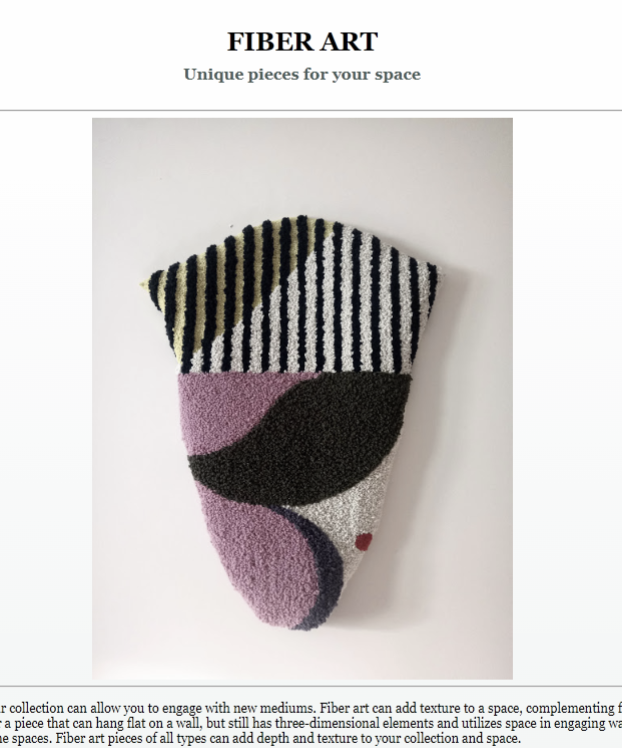
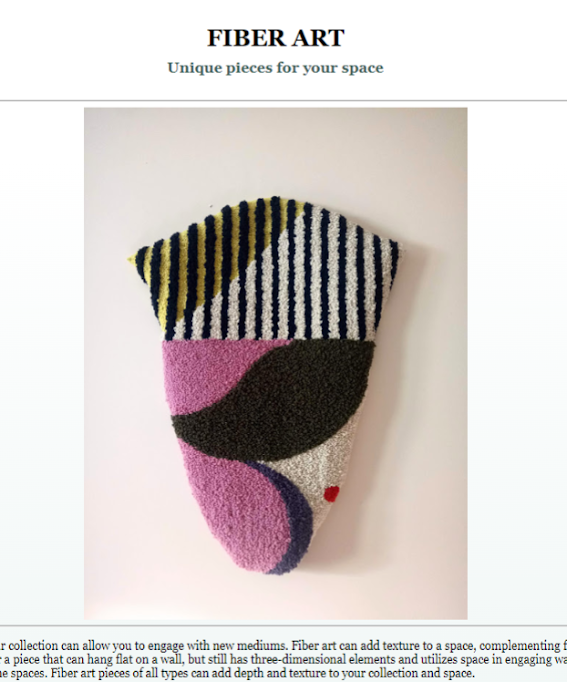
added and styled images, worked on responsive homepage

diff --git a/index.html b/index.html
@@ -31,48 +31,76 @@
     <title>Vik Shpetna</title>
   </head>
   <body>
-    <div class="hero">
-      <h2>FRONT-END DEVELOPER</h2>
-      <h1>VIK SHPETNA</h1>
-      <p>
-        Hello world and beautiful people, I'm front-end developer based in
-        Portugal
-      </p>
-      <div class="mb-5 mt-5">
-        <a href="#" class="btn btn-primary">GET STARTED</a>
+    <div class="container-fluid">
+      <div class="hero">
+        <h2>FRONT-END DEVELOPER</h2>
+        <h1>VIK SHPETNA</h1>
+        <p>
+          Hello world and beautiful people, I'm front-end developer based in
+          Portugal
+        </p>
+        <div class="mb-5 mt-5">
+          <a href="#" class="btn btn-primary">GET STARTED</a>
+        </div>
+        <div class="sm-links">
+          <i class="fa-brands fa-instagram"></i>
+          <i class="fa-brands fa-linkedin-in"></i>
+          <i class="fa-brands fa-github"></i>
+        </div>
       </div>
-      <div class="sm-links">
-        <i class="fa-brands fa-instagram"></i>
-        <i class="fa-brands fa-linkedin-in"></i>
-        <i class="fa-brands fa-github"></i>
-      </div>
-    </div>
-    <div class="container">
-      <div class="row">
-        <div class="col-3">
-          <img
-            src="images/fiberartbw.png"
-            class="rounded"
-            alt="fiberart-img"
-            height="280"
-          />
-        </div>
-        <div class="col-4">
-          <img
-            src="images/croissantbw.png"
-            class="rounded"
-            alt="croissant-img"
-            height="280"
-          />
-        </div>
-        <div class="col-5">
-          <img
-            src="images/weather2bw.png"
-            class="rounded"
-            alt="weather-img"
-            height="280"
-          />
-        </div>
+      <div class="gallery">
+        <ul class="image-gallery hidden-mobile">
+          <li>
+            <img
+              src="images/fiberart2bw.png"
+              class="img-fluid rounded"
+              alt="fiberart-img"
+              height="280"
+            />
+          </li>
+          <li>
+            <img
+              src="images/croissantbw.png"
+              class="img-fluid rounded"
+              alt="croissant-img"
+              height="280"
+            />
+          </li>
+          <li>
+            <img
+              src="images/weather2bw.png"
+              class="img-fluid rounded"
+              alt="weather-img"
+              height="280"
+            />
+          </li>
+        </ul>
+        <ul class="image-gallery hidden-mobile">
+          <li>
+            <img
+              src="images/aboutmebw.png"
+              class="img-fluid rounded"
+              alt="fiberart-img"
+              height="280"
+            />
+          </li>
+          <li>
+            <img
+              src="images/yogaapp3bw.png"
+              class="img-fluid rounded"
+              alt="croissant-img"
+              height="280"
+            />
+          </li>
+          <li>
+            <img
+              src="images/yougurtapp2bw.png"
+              class="img-fluid rounded"
+              alt="weather-img"
+              height="280"
+            />
+          </li>
+        </ul>
       </div>
     </div>
   </body>

diff --git a/styles/portfolio.css b/styles/portfolio.css
@@ -9,9 +9,15 @@ body {
   
 }
 
+.container {
+  margin: 25px auto;
+  padding: 0;
+}
+
 .hero {
-  padding: 35px 45px;
-  margin: 55px auto;
+  text-align: center;
+  padding: 35px 15px;
+  margin: 55px 5px;
   height: 640px;
   background-image: url(../images/cityscape.jpg);
   background-position: center, center;
@@ -21,6 +27,7 @@ body {
 }
 
 h1 {
+  text-align: center;
   color: var(--main-text-color);
   font-family: var(--main-font-family);
   font-weight: bold;
@@ -66,18 +73,41 @@ color: var(--main-text-color);
 opacity: 48%;
 }
 
-.row {
-  display: flex;
-  flex-wrap: wrap;
-  padding: 0 4px;
+.gallery {
+   position: relative;
+   margin: auto 215px;
 }
 
-@media (max-width:736px) {
-    .hero {
-        
-    }
+.image-gallery {
+  margin: auto 10px;
+  padding: 10px 10px;
+  display: flex;
+  flex-wrap: wrap;
+  gap: 15px;
+}
+
+.image-gallery > li {
+  height: 280px;
+  cursor: pointer;
+  position: relative;
+  justify-content:space-between;
+}
+
+.image-gallery li img {
+  object-fit: cover;
+  width: 100%;
+  height: 100%;
+  vertical-align: middle;
+  border-radius: 5px;
+}
+
+
+@media (max-width:767px) {
+  .hidden-mobile {
+    display: none;
+  }
     h1 {
-        font-size: 48px;
+        font-size: 42px;
     }
     h2 {
         font-size: 18px;
